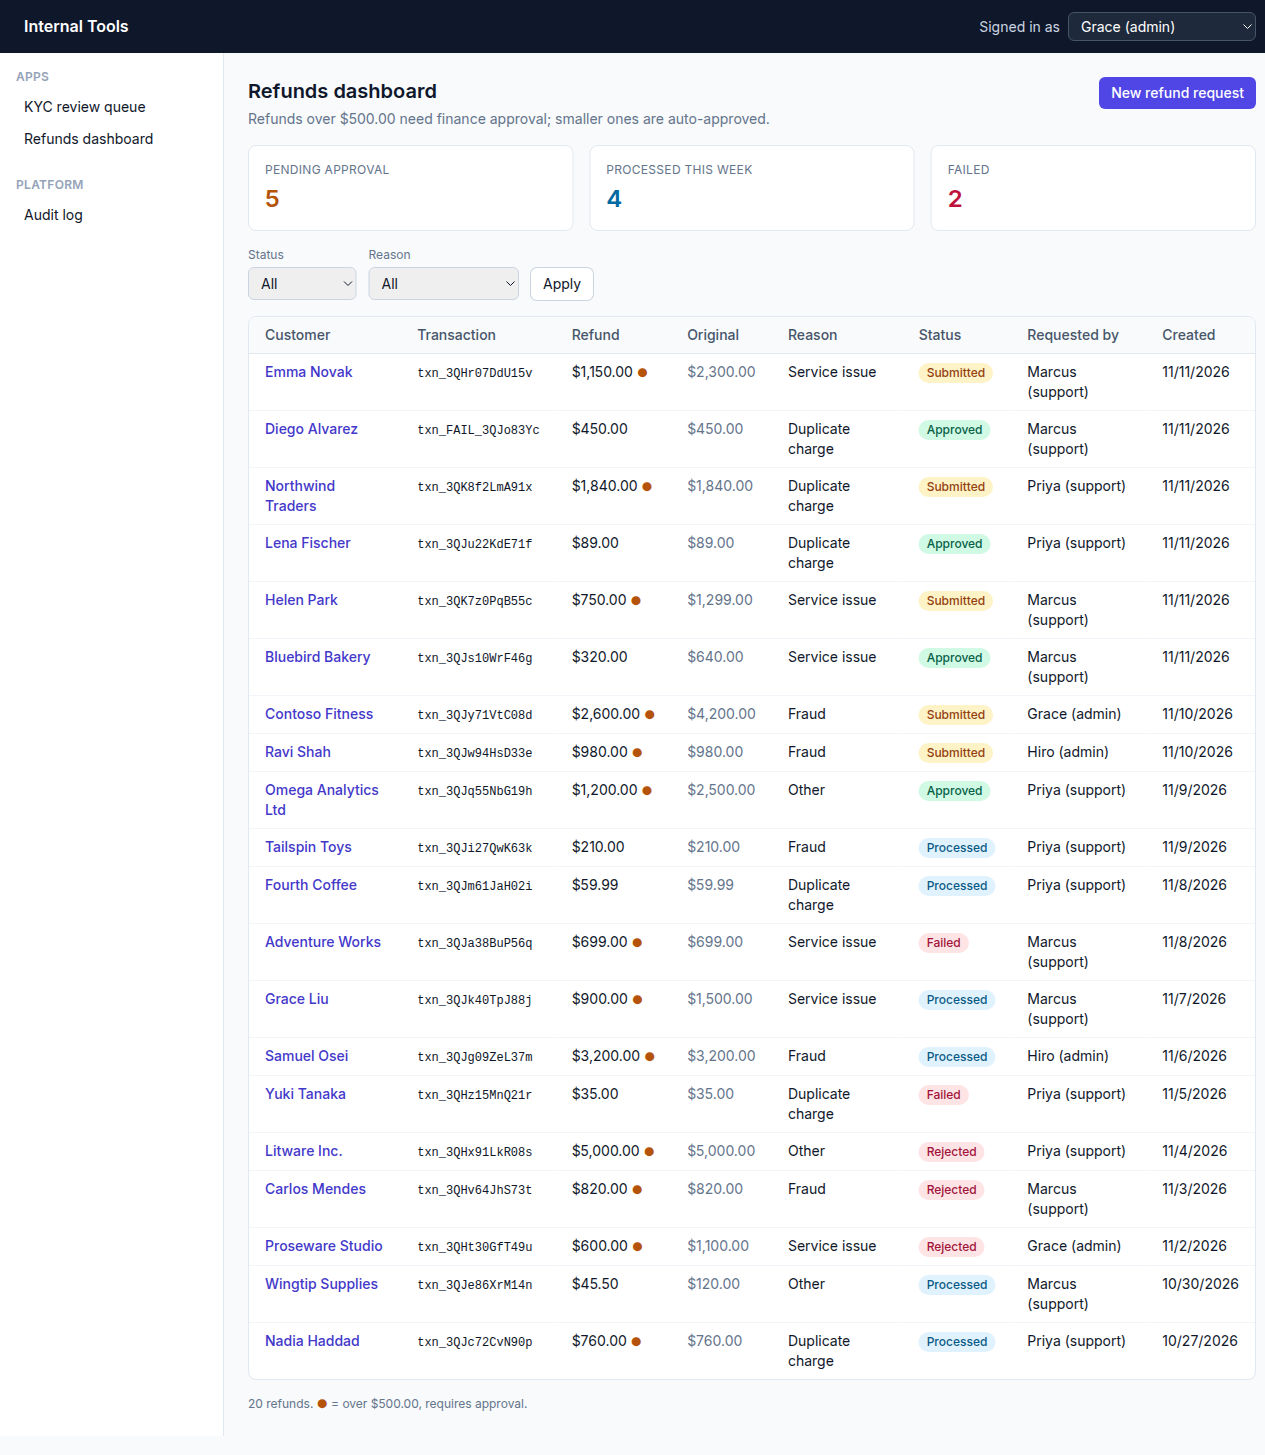
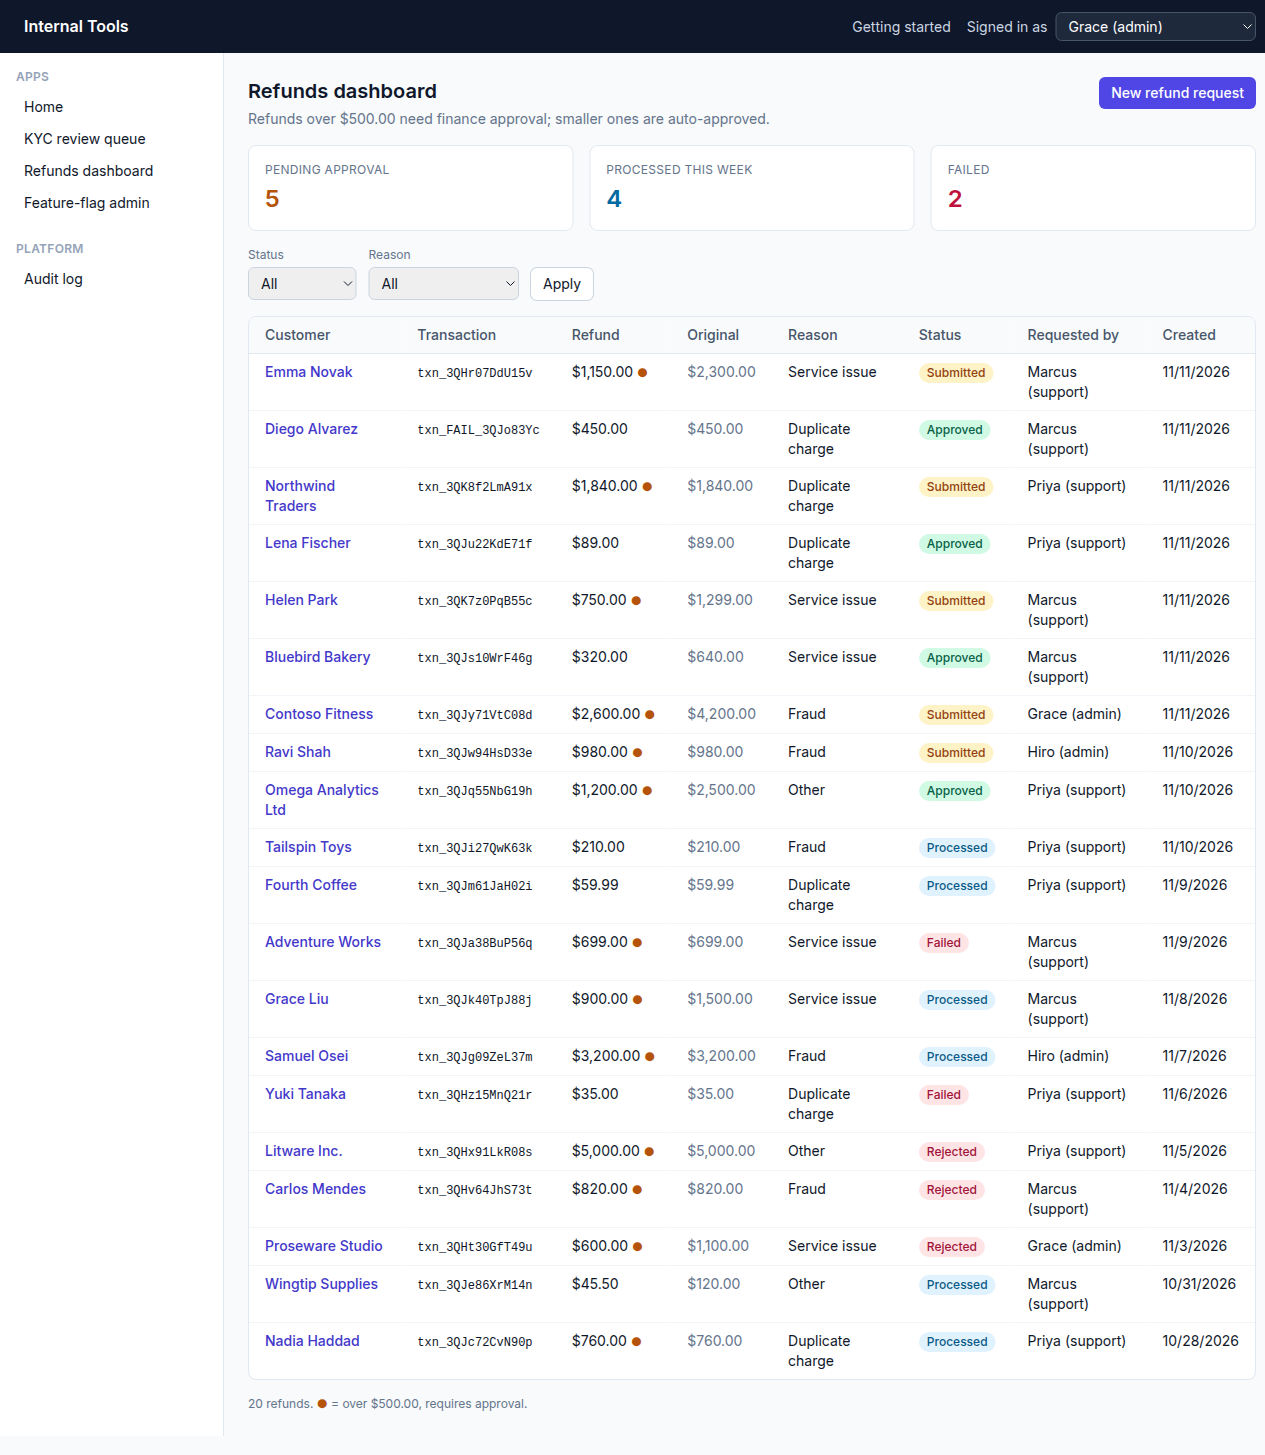
Docs: launcher, Getting started, attention in README and playbook; refreshed screenshots; build log

diff --git a/docs/playbooks/new-internal-app.md b/docs/playbooks/new-internal-app.md
@@ -34,6 +34,8 @@ Examples below are placeholders for a hypothetical `<app>`; see the two referenc
 | Integrations used and when, including the Slack channel | Each app passes its own `channel` (section 5). Ask how failures should be demoed (section 5, mocks) |
 | Create flow: which roles create, form fields (required, ranges, options), and whether another system creates records via API | |
 | Screens | list (or dashboard with summary tiles) with filters, detail with actions, new-record form, audit history |
+| "Needs your attention" rules | Which records each role should be prompted to act on, and the priority of each (high/medium/low). See section 5 |
+| Help | Who the app is for, the key actions that need a "?" hint, and a demo path. See section 5 |
 
 Roles live in one place: `src/foundation/access/roles.ts`. Reuse the existing roles. Only add a role if the user asks for one; adding it there is the only foundation change allowed. A new role also needs:
 - 2 seed users in `prisma/seed.ts` (e.g. "Priya (support)"), so the user switcher can show it;
@@ -57,6 +59,8 @@ src/apps/<app>/screens/Detail.tsx     # detail page
 src/apps/<app>/screens/New.tsx        # create form (CreateForm), served at /apps/<app>/new
 src/apps/<app>/screens/tones.ts       # optional: StatusBadge colours for new statuses (passed as `tones`)
 src/apps/<app>/api.ts                 # optional: defineApi(...) endpoints served at /api/<app>/<route>
+src/apps/<app>/help.ts                # AppHelp: who it's for, 3-5 steps, demo path, "?" hint text (section 5)
+src/apps/<app>/attention.ts           # attention(user): items for "Needs your attention" (section 5)
 src/apps/<app>/manifest.tsx           # defineApp(...)
 src/apps/index.ts                     # register the app (edit: one line)
 tests/<app>.test.ts                   # required tests (see section 6)
@@ -192,11 +196,26 @@ Every app gets a create path that goes through the foundation, never direct DB w
 export const refundsApp = defineApp({
   id: APP_ID, name: "Refunds dashboard", description: "…",
   canAccess: (user) => can(user, "read", { entity: RefundEntity }),
+  help: refundsHelp,             // ./help.ts (required)
+  attention: refundsAttention,   // ./attention.ts (required)
   render: async ({ user, path, searchParams }) =>
     path.length === 0 ? await List({ user, searchParams }) : await Detail({ user, id: path[0], searchParams }),
 });
 ```
-Then add it to the array in `src/apps/index.ts`. It appears in the nav and at `/apps/<id>`. Do not add files under `src/app/`; the catch-all routes serve every app's screens (`/apps/<id>/...`) and endpoints (`/api/<id>/<route>`).
+Then add it to the array in `src/apps/index.ts`. The launcher (`/`), the nav, the Getting started page (`/guide`) and "Needs your attention" are all driven by the registry, so the app appears in each automatically. It appears in the nav and at `/apps/<id>`. Do not add files under `src/app/`; the catch-all routes serve every app's screens (`/apps/<id>/...`) and endpoints (`/api/<id>/<route>`).
+
+### Built-in help (required)
+`help.ts` exports an `AppHelp` (`@/foundation/registry`); see `src/apps/refunds/help.ts`.
+- `roles`: who the app is for. Must equal the roles `canAccess` lets in; `tests/launcher.test.ts` fails otherwise. The launcher card shows them.
+- `steps`: 3-5 short "how to use" steps, shown on `/guide`.
+- `demo`: 2-3 `{ as: "<seeded user name>", tryThis }` steps that walk through the main flow, including one that shows a maker-checker block. Use seed data that exists.
+- `hints`: one sentence per key action (each submit/request, approve, and any action that calls an external system) saying what happens. Render `<HelpHint text={help.hints.x} transition={workflow.transitions.x} />` next to the button (`ActionButtons` takes a `hint` per action). "Who can do this" and the maker-checker note come from the transition, so don't write roles into the text.
+
+### Needs your attention (required)
+`attention.ts` exports `attention(user): Promise<AttentionItem[]>`; see `src/apps/refunds/attention.ts`. The launcher calls it only for apps the user can access, sorts all apps' items by priority then oldest, and shows the top 8.
+- Return `[]` unless `can(user, "read", { entity })`. Read with `listRecords` (or a service list function), never a broader query, so row scope applies.
+- Keep only records the user can act on now: `canPerformTransition(user, Entity, record, "<transition>")` from `@/foundation/attention` (permission + row scope + from-status + role + maker-checker, the same checks `transitionRecord` makes). This is what hides the user's own submissions. For items with no next transition (e.g. failed refunds), check `can(user, "transition", { entity, record })` and the role list of the transition that handles them.
+- Each item: `{ id, title, detail?, priority: "high" | "medium" | "low", since, href }`. Write `title` as the action ("Approve refund: $800.00 for Jane Doe"); `since` is when it started waiting (e.g. `prodChangeRequestedAt`, `createdAt`). Agree the rules and priorities with the user (inputs table).
 
 ## 6. Required tests (`tests/<app>.test.ts`)
 
@@ -210,6 +229,7 @@ Use `tests/helpers.ts` (seeded test users `ana`, `omar`, `sofia`, `raj`, `grace`
 7. Read-only roles (auditor) cannot mutate.
 8. **Rules**: each threshold on both sides and exactly at the limit; rule-based transitions can't be triggered directly; cross-field rules throw `ValidationError` and write nothing.
 9. **Create** (see `tests/create.test.ts`): each role without `create` gets `ForbiddenError` from the service (even with invalid input) and nothing is written; a permitted create writes exactly one `AuditLog` row (`before: null`) and starts in the initial status; each validation rule (required, ranges, invalid options) throws `ValidationError` and writes nothing; status/submitter in the input are ignored (for create-as-submit, the maker is always the creating user). If there is an API: valid token → 201 with a service-account audit entry, bad token → 401, unpermitted session or cross-origin → 403, invalid body → 400 (call `handleApiRequest` with a `Request`).
+10. **Attention** (add a case to `tests/launcher.test.ts`): fixtures for each item kind plus near-misses (the user's own submission, wrong status, under a threshold, another analyst's record); assert each role sees exactly the items it can act on and no item where it is the maker; assert the priorities; an item disappears once acted on.
 
 ## 7. Definition of done
 
@@ -217,7 +237,9 @@ Use `tests/helpers.ts` (seeded test users `ana`, `omar`, `sofia`, `raj`, `grace`
 - [ ] `npm test`, `npm run lint`, `npm run typecheck` all pass
 - [ ] Nothing in `src/apps/<app>` imports Prisma, the db client, audit internals, crypto or mocks; no `fetch`
 - [ ] No foundation changes other than: Prisma model + migration, model type re-export, new roles (if asked), a new adapter or mock failure trigger (if needed). Anything else is flagged in the PR description
-- [ ] App appears in the nav for roles with `read`, and is hidden for others
+- [ ] App appears in the nav for roles with `read`, and is hidden for others; its launcher card is enabled for those roles and greyed out ("No access") for others
+- [ ] `help` declared: `roles` match access (launcher test passes), 3-5 steps, a demo path that works on seed data, and a "?" `HelpHint` next to each key action; the app's section on `/guide` reads correctly
+- [ ] `attention` declared: items filtered with `canPerformTransition` (never the user's own submissions), priorities agreed with the user, tests in `tests/launcher.test.ts`; checked in the browser as each role that should see items, plus one that should see "You're all caught up"
 - [ ] Governed create flow: `New` form for the roles with `create` (hidden and refused for others), validated by the shared `fields`; API endpoint if another system creates records
 - [ ] Verified in the browser as one user per role: list scope, masking, buttons by role and status, maker-checker disabled button, create form (and validation error), audit history updates after each action, global Audit log shows the entries with `app=<id>`
 - [ ] README "Apps" list updated (with a screenshot if asked); small logical commits; PR summary lists any shortcuts and any gaps in this playbook

diff --git a/README.md b/README.md
@@ -2,7 +2,7 @@
 
 A proof of concept showing that the internal tools now built in Microsoft Power Apps (KYC review queue, refunds dashboard, feature-flag admin, and 10+ more) can live in their own codebase on a shared foundation that gives every app the governance Power Apps provides: **access control, audit logging, approvals and integrations**.
 
-This repo contains the foundation plus two apps, the **KYC review queue** and the **Feature-flag admin**. New apps are added with [`docs/playbooks/new-internal-app.md`](docs/playbooks/new-internal-app.md).
+This repo contains the foundation plus three apps: the **KYC review queue**, the **Refunds dashboard** and the **Feature-flag admin**. New apps are added with [`docs/playbooks/new-internal-app.md`](docs/playbooks/new-internal-app.md).
 
 > Prototype, not production software. See [Out of scope](#out-of-scope).
 
@@ -29,7 +29,29 @@ Use the **Signed in as** switcher in the header to change user. Seeded users (tw
 | engineer | Nina, Sam | No KYC access (Feature-flag admin only, see below) |
 | release_manager | Elena, Diana | No KYC access (Feature-flag admin only, see below) |
 
+![KYC review queue as Sofia (senior reviewer)](docs/screenshots/kyc-queue.png)
+
 Demo tip: open "Chen Wei" as Sofia. She submitted it, so Approve is disabled. Switch to Raj and approve it, then check the case history and **Audit log**. The mock Slack message prints in the `npm run dev` console.
+
+## Launcher and Getting started
+
+![Launcher as Grace (admin): Needs your attention above the app cards](docs/screenshots/launcher.png)
+
+- **Launcher (`/`)**: one card per registered app with its description, the roles it's for and an **Open** button. Apps the current role can't use are greyed out with "No access" (below, as Ana the analyst). Built entirely from the registry in `src/apps/index.ts`, so new apps appear automatically.
+- **Needs your attention**: items the current user can act on right now across all apps, highest priority then oldest first (top 8, with a count per app). Each app declares an `attention` query; items are read through the data helpers and filtered with the same permission, status and maker-checker checks the server enforces, so your own submissions never appear. "You're all caught up" when there is nothing.
+
+  | App | Item | Who sees it | Priority |
+  |---|---|---|---|
+  | KYC | Pending approval | Senior reviewers and admins who didn't submit it | High if risk ≥ 70, else medium |
+  | KYC | In review, assigned to you | The assigned analyst | Medium if risk ≥ 70, else low |
+  | Refunds | Over $500, pending approval | Finance approvers and admins who didn't request it | Medium |
+  | Refunds | Failed | Finance approvers and admins | High |
+  | Feature flags | Pending prod change | Release managers and admins who didn't request it | Medium |
+
+- **Getting started (`/guide`, header link)**: what the platform is, how the **Signed in as** switcher works, a demo path per app (which user to switch to and what to try) and how governance works. A dismissible "New here? Start with the guide" banner shows on first visit (remembered in the browser).
+- **"?" hints** next to key actions (Submit for approval, Approve, Process refund, Request prod change) explain what happens and who can do it. "Who" is read from the workflow, so it matches what the server enforces.
+
+![Launcher as Ana (analyst): apps she can't use are greyed out](docs/screenshots/launcher-analyst.png)
 
 ### Creating cases
 
@@ -98,7 +120,8 @@ src/
     ui/                  DataTable, DetailPanel, Form, ActionButtons, StatusBadge, FilterBar, AuditTrail, ...
     forms/               FieldSpec + parseInput (one field list drives create forms and server-side validation)
     api/                 defineApi + request auth (service-account bearer token or same-origin session)
-    registry/            AppManifest type + defineApp
+    registry/            AppManifest type (help, attention) + defineApp + launcher cards
+    attention/           Needs your attention: collectAttention(), canPerformTransition()
   apps/
     index.ts             app registry: one line per app; drives the nav and routing
     kyc/                 entity.ts (workflow + policy), service.ts, actions.ts, screens/, manifest.tsx
@@ -117,6 +140,8 @@ Key pieces:
 - **Integrations.** One adapter interface per external system (`KycVendorAdapter`, `PaymentsAdapter`, `NotificationsAdapter`), all mocked. Notifications log "Slack" messages to the console and the `Notification` table. Config comes from `.env` via `integrations/config.ts`.
 - **Identity.** `getCurrentUser()` reads a cookie set by the header switcher. **This is where Okta / Entra ID SSO plugs in**: replace it with an OIDC session lookup and map IdP groups to the roles in `roles.ts`. API callers authenticate as service accounts (`identity/service-accounts.ts`, bearer token from `.env`) with the `integration` role, so their writes are access-checked and audited too.
 
+![Audit log as Maya (auditor)](docs/screenshots/audit-log.png)
+
 ### How this maps to Power Apps
 
 | Power Platform | This foundation |
@@ -126,7 +151,7 @@ Key pieces:
 | Power Automate approvals | `defineWorkflow` state machine + maker-checker (`submits` / `requiresChecker`) |
 | Connectors | Adapters in `src/foundation/integrations` behind interfaces, with config in one place |
 | Entra ID sign-in | Identity stub (`src/foundation/identity`); SSO plugs in here |
-| App catalog / left nav | App registry (`src/apps/index.ts`) |
+| App catalog / left nav | App registry (`src/apps/index.ts`): drives the launcher, nav, Getting started page and Needs your attention |
 
 ## Apps
 
@@ -138,7 +163,16 @@ Key pieces:
 
 ## Adding an app
 
-Follow [`docs/playbooks/new-internal-app.md`](docs/playbooks/new-internal-app.md). In short: add a Prisma model, write `entity.ts` (workflow + policy), a `service.ts` that uses only foundation helpers, screens built from `@/foundation/ui`, a `manifest.tsx`, one line in `src/apps/index.ts`, and the required tests. A Devin session can be told "use the playbook to build a refunds dashboard".
+Follow [`docs/playbooks/new-internal-app.md`](docs/playbooks/new-internal-app.md). In short: add a Prisma model, write `entity.ts` (workflow + policy), a `service.ts` that uses only foundation helpers, screens built from `@/foundation/ui`, `help.ts` (who it's for, how-to steps, demo path, "?" hints), `attention.ts` (what needs each role's action), a `manifest.tsx`, one line in `src/apps/index.ts`, and the required tests. A Devin session can be told "use the playbook to build a refunds dashboard".
+
+## Build log
+
+Built by Devin, one row per session.
+
+| Session | What was built | PRs | Mode used |
+|---|---|---|---|
+| [Foundation, KYC, Refunds, polish](https://app.devin.ai/sessions/8ee6facfa15c4dfaac3b8e07fcb96111) | Foundation (access control, audit, approvals, integrations, registry), KYC review queue, tax-ID encryption at rest, governed create flow and KYC intake API, Refunds dashboard from the playbook, playbook gaps, create forms keeping values after errors, Feature flags fix, launcher, Needs your attention, Getting started and help hints | [#1](https://github.com/barrmelissa/Devin-Test/pull/1), [#2](https://github.com/barrmelissa/Devin-Test/pull/2), [#4](https://github.com/barrmelissa/Devin-Test/pull/4), [#5](https://github.com/barrmelissa/Devin-Test/pull/5), [#6](https://github.com/barrmelissa/Devin-Test/pull/6), this PR | Fusion (started in Fusion; later turns in Normal) |
+| [Feature-flag admin](https://app.devin.ai/sessions/337a0000fc984aef807b07c547f27feb) (child session) | Feature-flag admin app from the playbook | [#3](https://github.com/barrmelissa/Devin-Test/pull/3) | Normal |
 
 ## Out of scope
 
